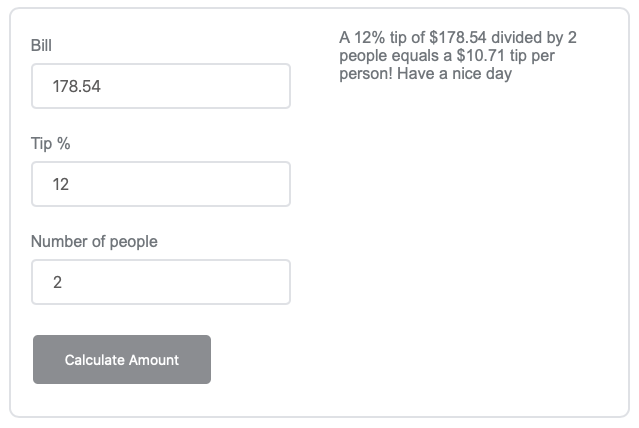
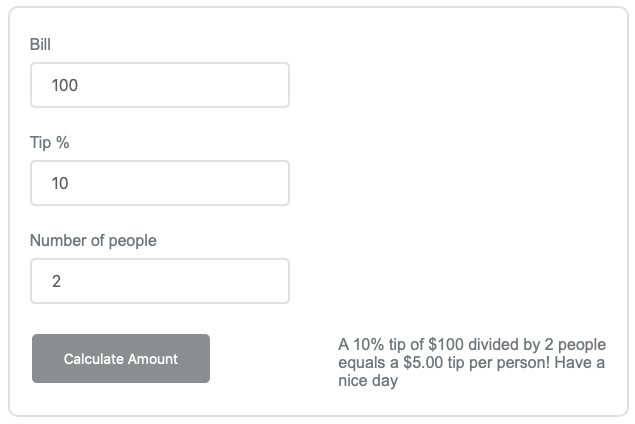
image

diff --git a/style.css b/style.css
@@ -47,6 +47,11 @@ input[type=number]::-webkit-inner-spin-button {
     font-family: arial, sans-serif;
     font-size: 16px;
     color: #70757a;
+
+    position: absolute;
+    top: 330px;
+    /* bottom: 10%; */
+    /* left: 50%; */
 }
 
 .button {
